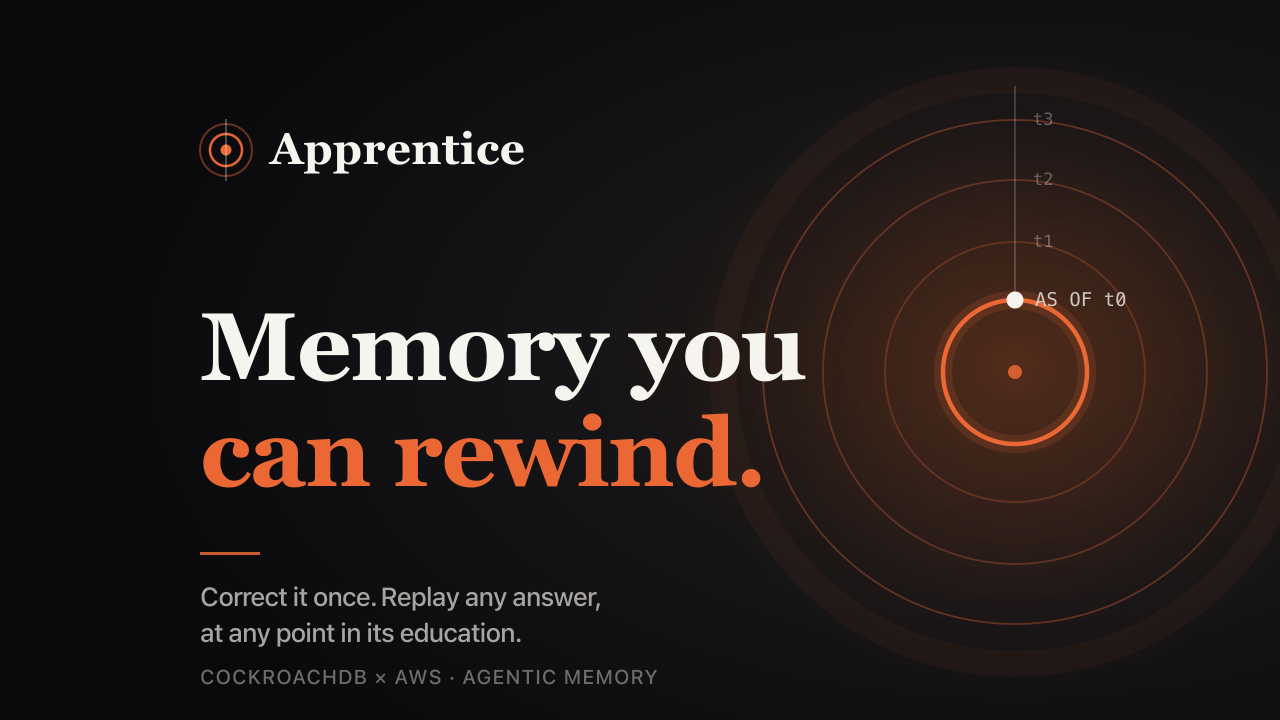
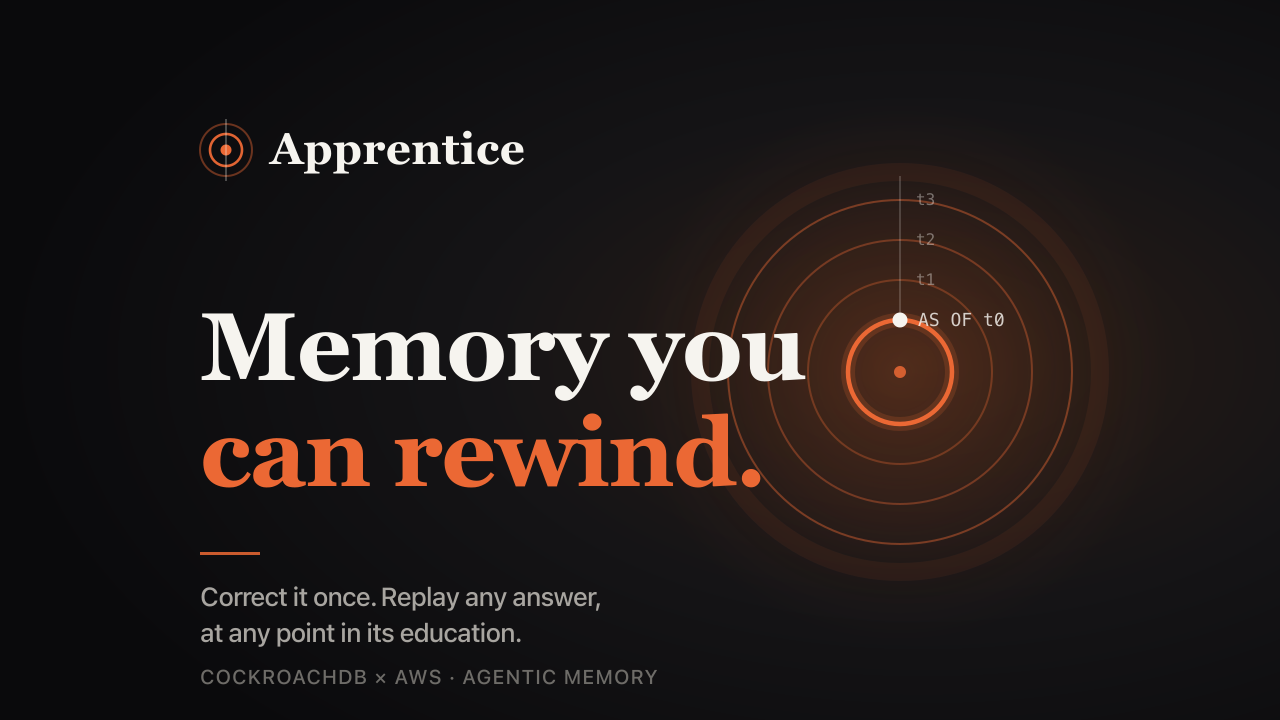
Cover: re-render thumbnail.png from the edited SVG (hero moved to x=900).
The committed PNG was stale against its source after the crop-safety edit.
Regenerated with rsvg-convert per UPLOAD.md; the live YouTube thumbnail already
carries this version.

diff --git a/docs/video/youtube/UPLOAD.md b/docs/video/youtube/UPLOAD.md
@@ -1,10 +1,12 @@
 # YouTube upload — Apprentice demo
 
+**Live:** https://youtu.be/xmxEFkEiJLY
+
 Video file: `docs/video/youtube/apprentice-demo-final.mp4` (~2:59, 1920×1080).
 Thumbnail: `docs/video/youtube/thumbnail.png` (1280×720).
 Exam chart (for the article, not the cover): `docs/video/youtube/thumbnail-exam-chart.png`.
 
-Paste the blocks below into YouTube Studio. Keep the video **Unlisted** until the Devpost submission is live, then set it Public (or leave Unlisted if Devpost only needs the embed URL).
+Paste the blocks below into YouTube Studio if you need to re-edit metadata. Unlisted is fine until Devpost is submitted; then Public if you want the listing itself to rank.
 
 ---
 
